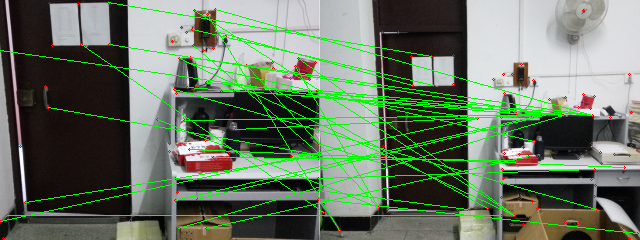
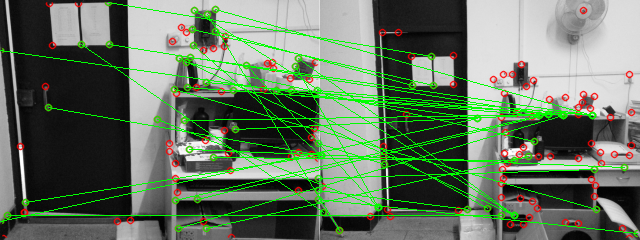
* 修改feature_test

diff --git a/feature_test/harris_match.py b/feature_test/harris_match.py
@@ -16,7 +16,11 @@ def read_img(filename):
     img = cv2.resize(img, size, interpolation=cv2.INTER_AREA)
 
     gray = cv2.cvtColor(img, cv2.COLOR_BGR2GRAY)
-    return img, gray
+    img2 = np.zeros_like(img)
+    img2[:,:,0] = gray
+    img2[:,:,1] = gray
+    img2[:,:,2] = gray
+    return img2, gray
 
 @cul_exe_time()
 def harris(img, gray):
@@ -42,7 +46,7 @@ def harris(img, gray):
     
     # 绘制亚像素点精确后的角点
     for p in corners:
-        cv2.circle(img, tuple(p), 1, (0, 0, 255))
+        cv2.circle(img, tuple(p), 3, (0, 0, 255), 1, cv2.LINE_AA)
 
     return img, gray, corners
 
@@ -82,6 +86,8 @@ def match(img1, gray1, corners1, img2, gray2, corners2):
 
     print(len(matches))
     for (p1, p2) in matches:
+        cv2.circle(img, tuple(p1), 3, (0, 255, 0), 1, cv2.LINE_AA)
+        cv2.circle(img, tuple(p2), 3, (0, 255, 0), 1, cv2.LINE_AA)
         cv2.line(img, tuple(p1), tuple(p2), (0, 255, 0), 1)
     
     return img

diff --git a/feature_test/sift_match.py b/feature_test/sift_match.py
@@ -80,7 +80,7 @@ def match(img1, kp1, des1, img2, kp2, des2):
 
         draw_params = dict(
             matchColor=(0, 255, 0),
-            singlePointColor=(255, 0, 0),
+            singlePointColor=(0, 0, 255),
             matchesMask=matchesMask,
             flags=0
         )

diff --git a/feature_test/surf_match.py b/feature_test/surf_match.py
@@ -80,7 +80,7 @@ def match(img1, kp1, des1, img2, kp2, des2):
 
         draw_params = dict(
             matchColor=(0, 255, 0),
-            singlePointColor=(255, 0, 0),
+            singlePointColor=(0, 0, 255),
             matchesMask=matchesMask,
             flags=0
         )
